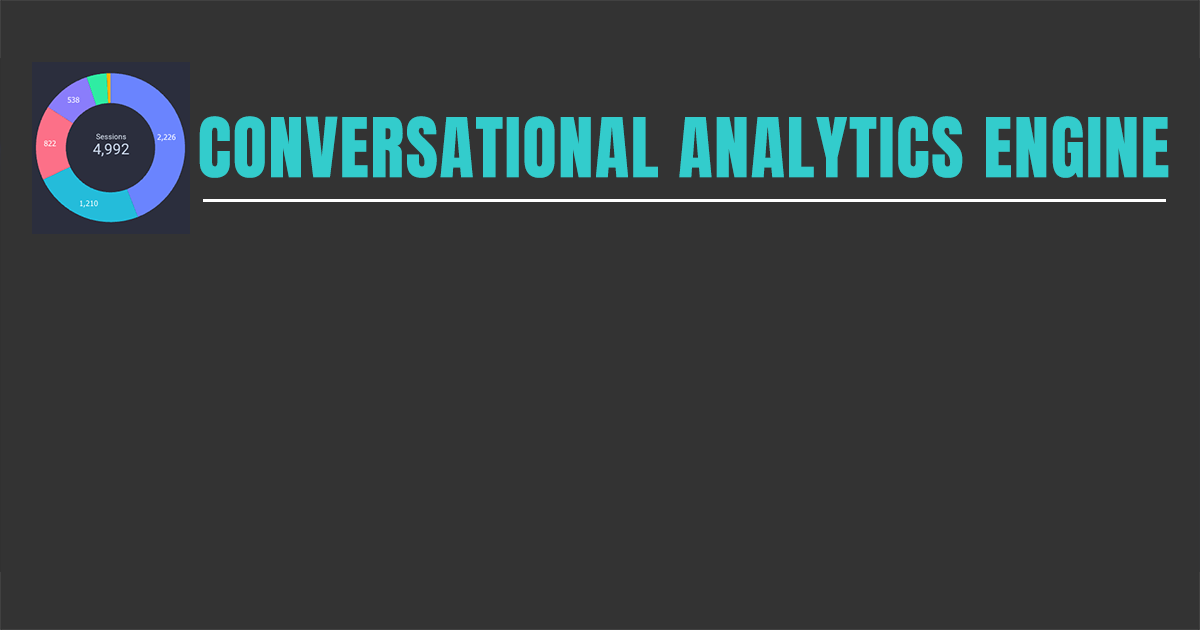
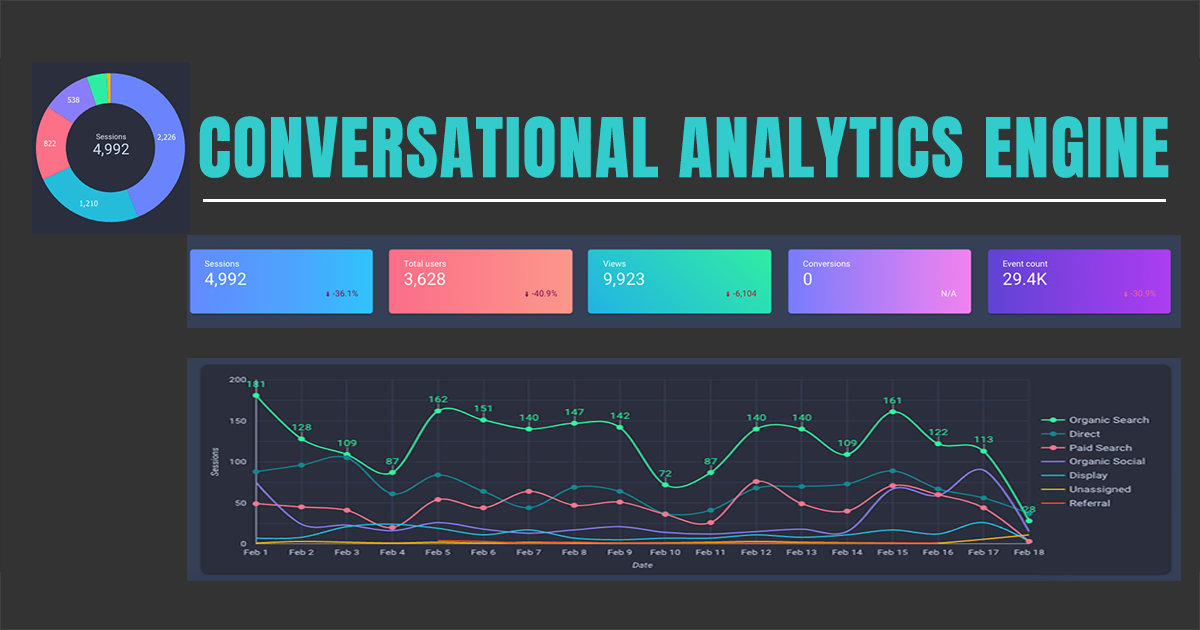
updated project-analytics.png

diff --git a/CLAUDE.md b/CLAUDE.md
@@ -137,7 +137,8 @@ public/             — static assets (project screenshots go here)
 | Smart UX Frameworks ⚠ placeholder | 12ms Inference Latency | React, Tailwind, TensorFlow.js, Vite |
 
 > Card 3 is still placeholder — user to confirm what real project to substitute.
-> Project images: card 2 (PageScore) has a real screenshot (`project-pagescore.png`). Cards 1 and 3 still show placeholder divs.
+> Card 3 is still placeholder — user to confirm what real project to substitute.
+> Project images: cards 1 (Conversational Analytics) and 2 (PageScore) have real screenshots. Card 3 still shows a placeholder div.
 > To add an image to a card: drop PNG into `public/`, add `image: "/filename.png"` to its object in `PROJECTS[]` in `Projects.tsx`. The `<Image>` component and conditional render are already wired up.
 
 ---
@@ -180,6 +181,11 @@ public/             — static assets (project screenshots go here)
 - **2026-06-07 (PM)** — Brand color scheme + logo:
   - Color palette updated from violet/cyan/orange → **gold/royal-blue/crimson** to match Daventertainment Inc logo
   - Nav logo: replaced "D" letter circle with `public/Daventertainment-logo.png` via Next.js `<Image>`
+  - Nav "SSH_CONNECT" button: fixed broken `#signal` link → `#contact`
+  - Contact form: switched from fake setTimeout → formsubmit.co AJAX (live, activated, delivering to davedvst@gmail.com)
+  - Service card 3: "Cloud Architecture" → "Cloud & Analytics Infrastructure" (GCP, BigQuery, Looker Studio)
+  - Project card 1: "Intelligent E-commerce Engine" → "Conversational Analytics Engine" (real GCP/BigQuery/GA4 project)
+  - Project images: cards 1 and 2 now use real screenshots (`project-analytics.png`, `project-pagescore.png`)
 
 ## Contact Form — Implementation Notes
 
@@ -191,7 +197,7 @@ public/             — static assets (project screenshots go here)
 ## Next Session — Pick Up Here
 
 - [ ] **Project card 3** — "Smart UX Frameworks" is still placeholder content. Ask user what real project to replace it with.
-- [ ] **Project screenshots** — cards 1 and 3 still need real images. Drop into `public/` as `project-analytics.png` and `project-ux-frameworks.png` (or whatever card 3 becomes), then add `image: "/filename.png"` to each project object in `Projects.tsx`.
+- [ ] **Project screenshots** — card 3 still needs a real image. Once card 3 content is decided, drop PNG into `public/` and add `image: "/filename.png"` to its object in `Projects.tsx`.
 - [ ] **Any additional polish** — animations, further copy tweaks, new sections if needed
 
 ---
